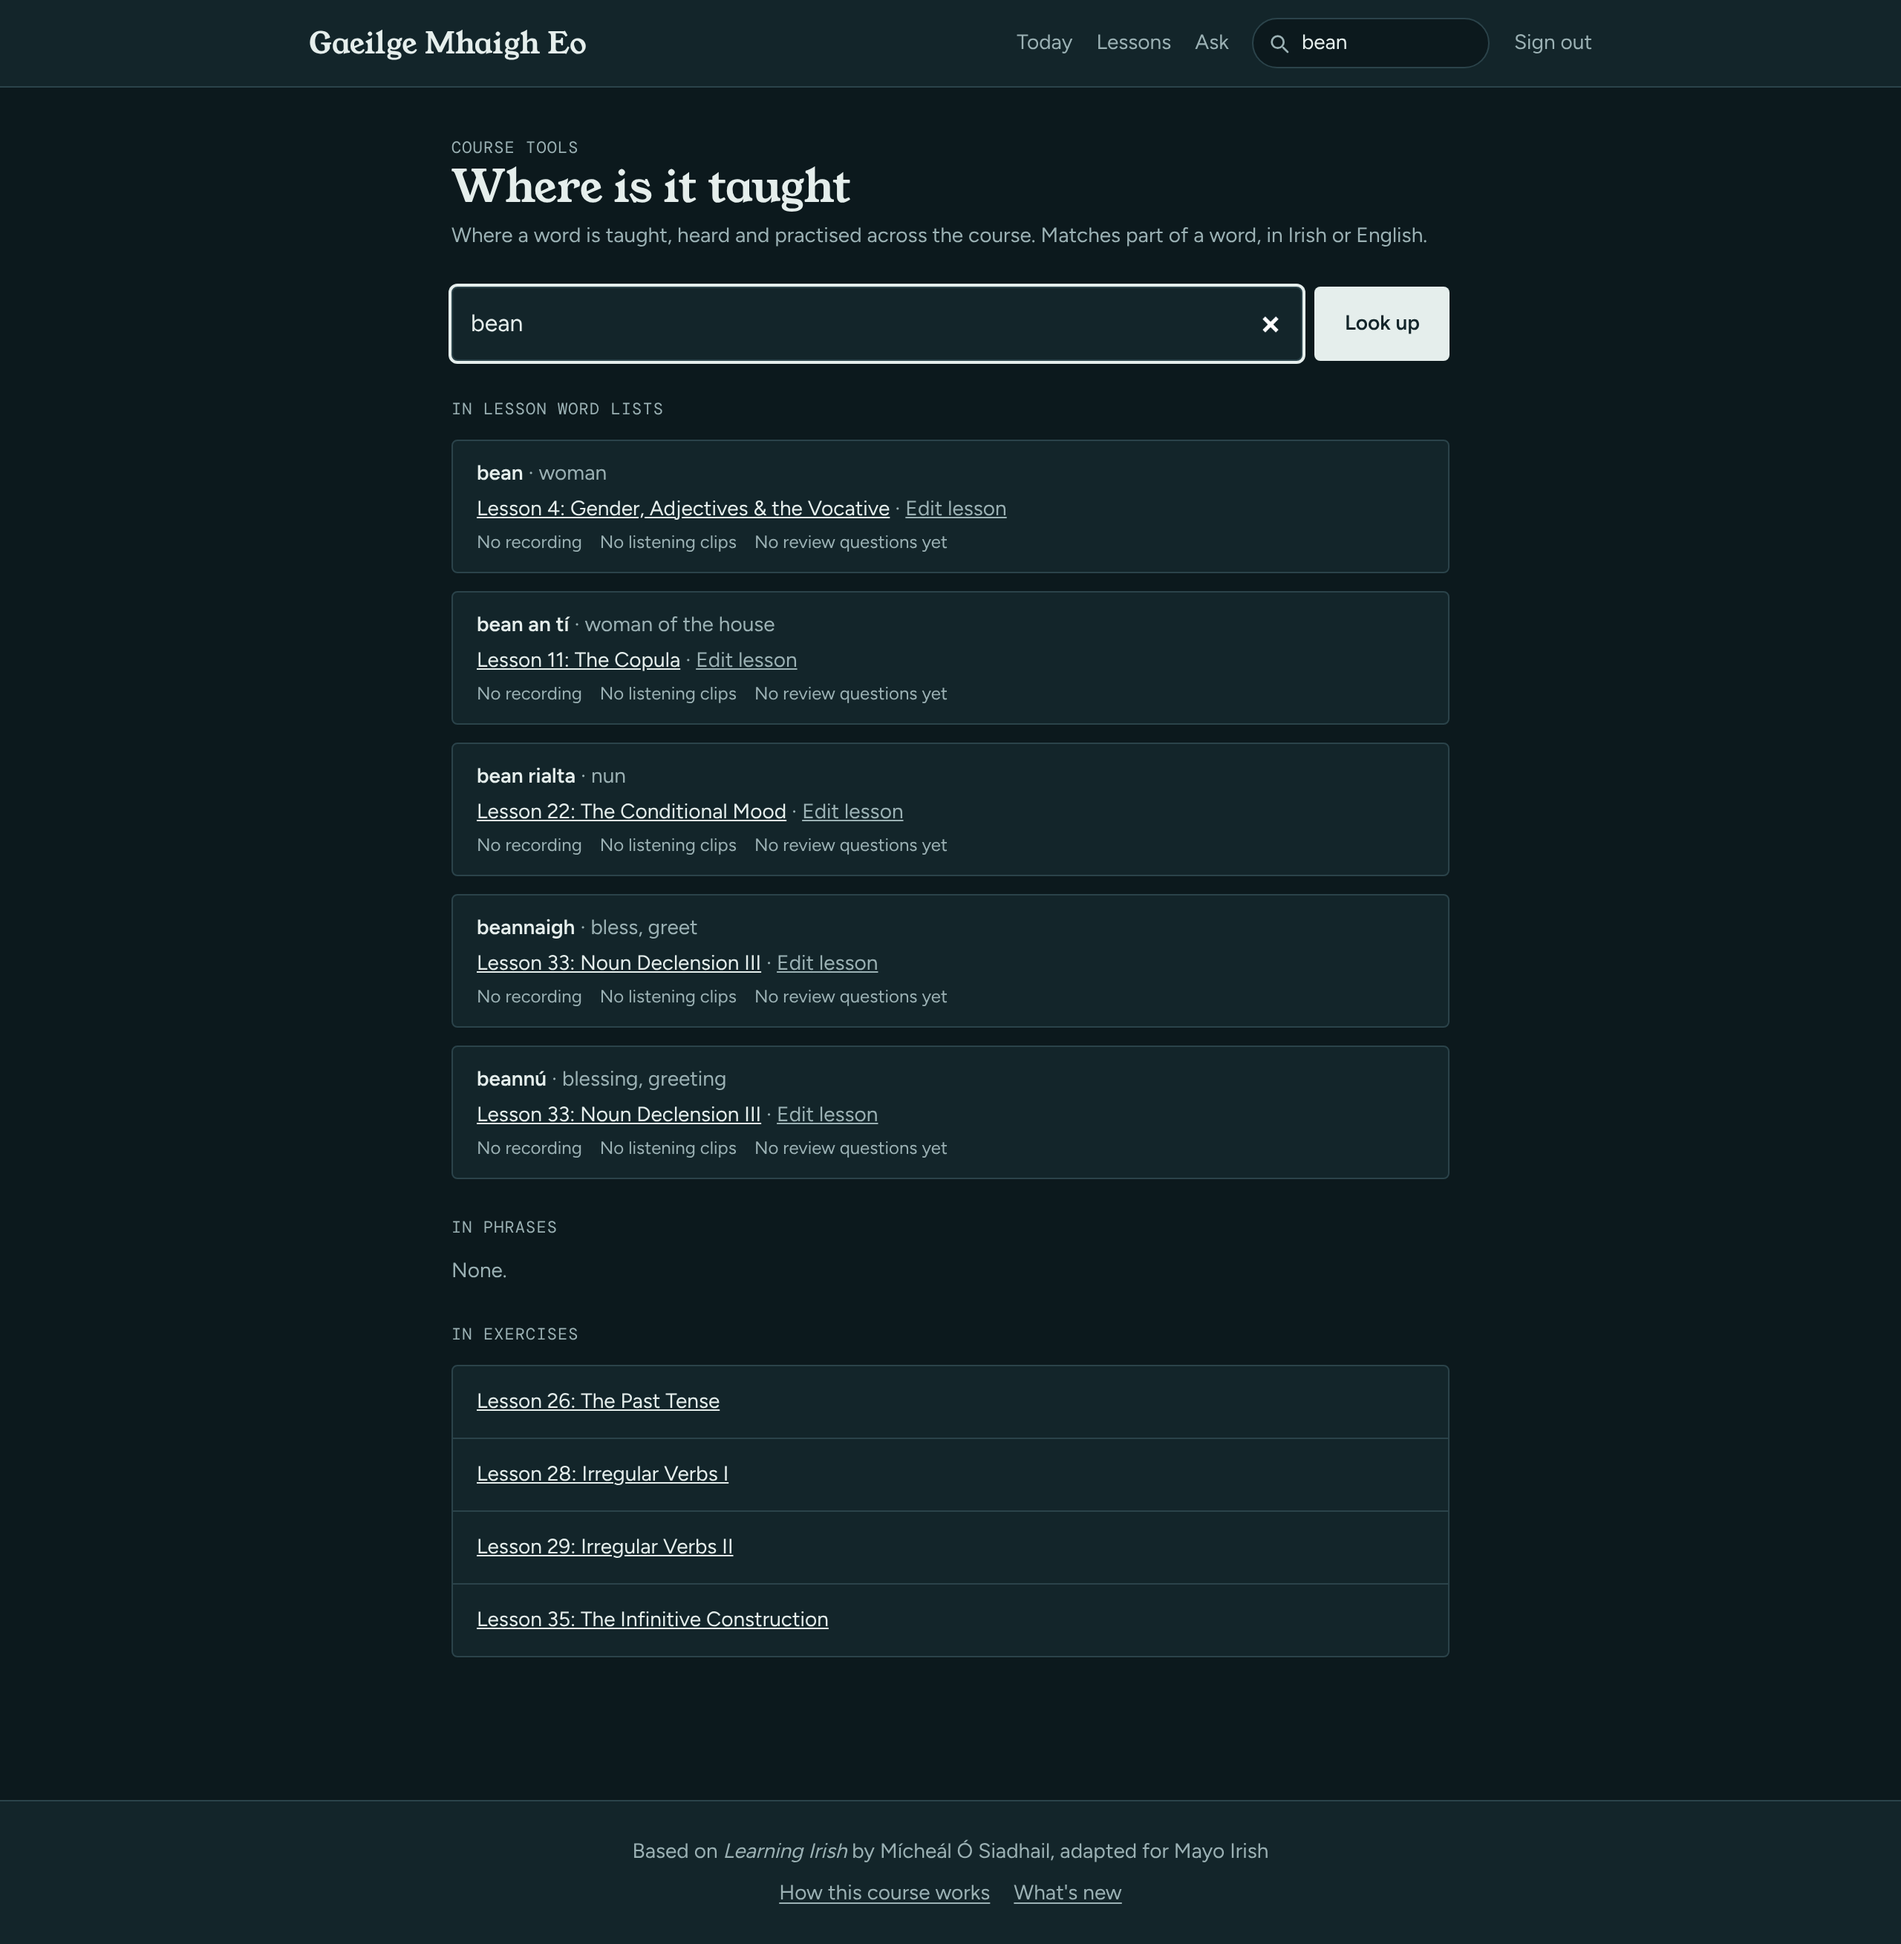
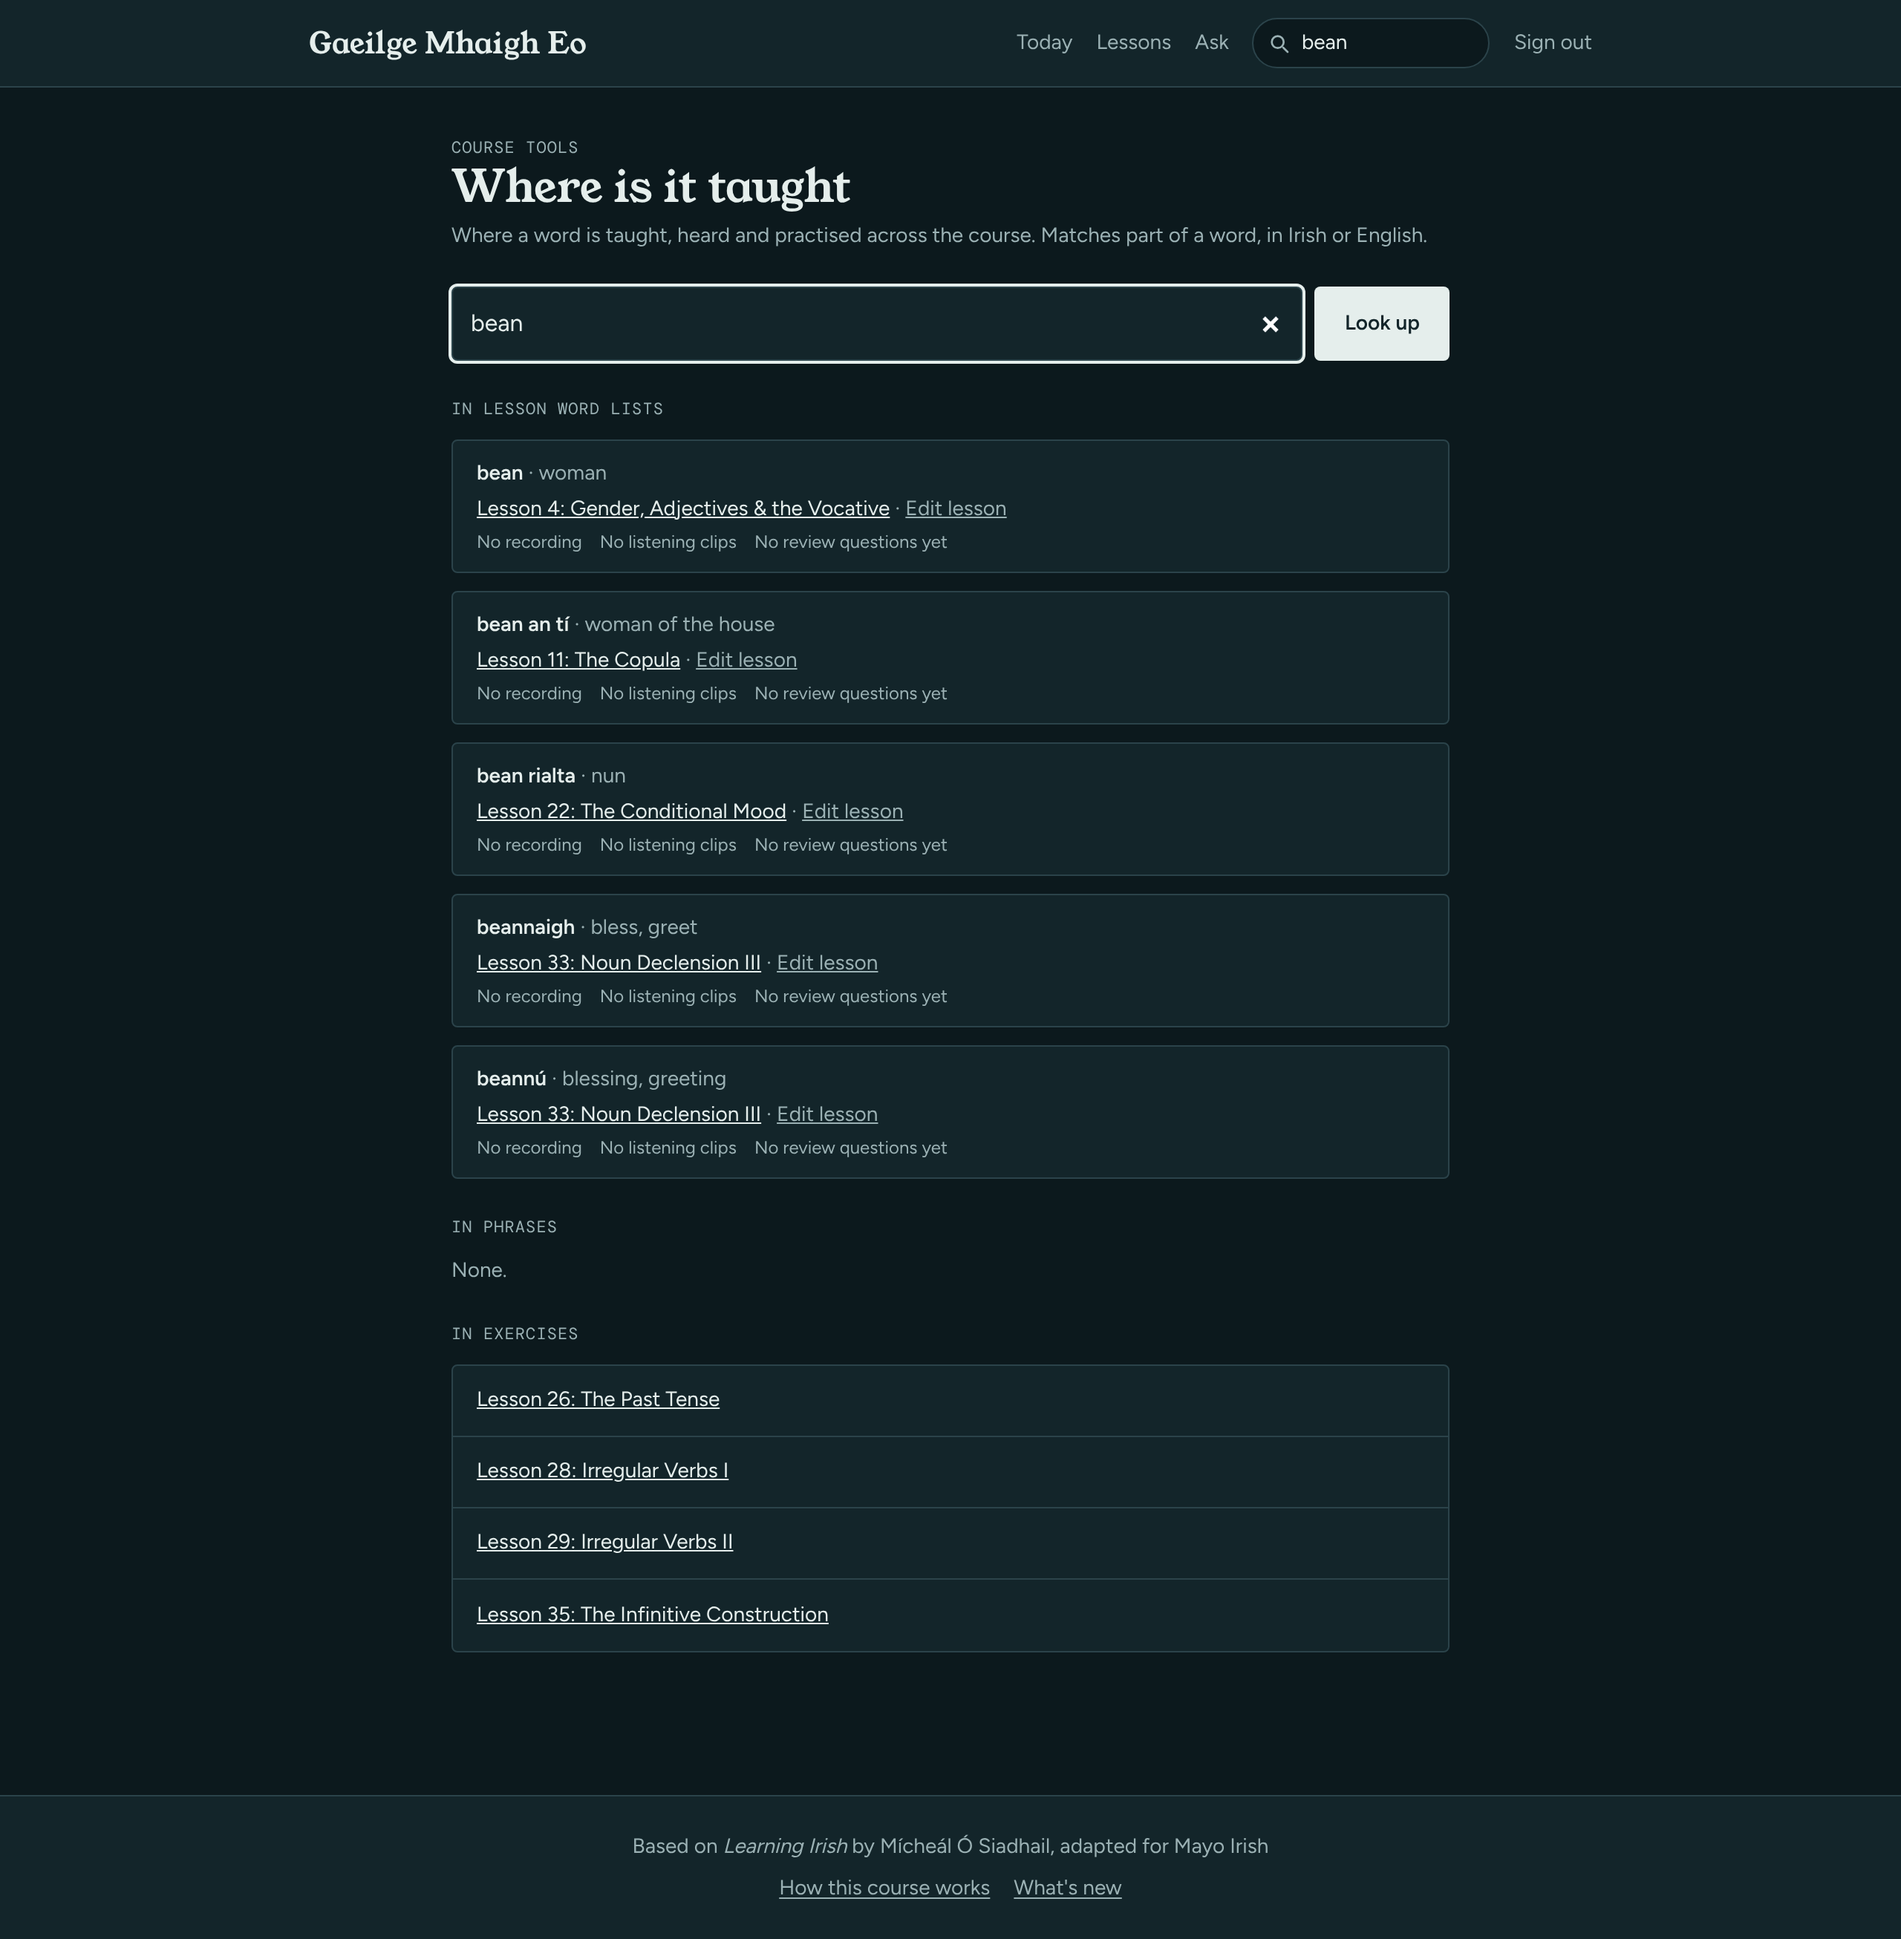
Where is it taught: note truncated lists, mark drafts, more tests (#203)
Claude-Session: https://claude.ai/code/session_017wWQSAtuA9CGNJEz61AEXT

Changed region(s): [[0.25, 0.2171, 0.5312, 0.6202], [0.25, 0.6822, 0.375, 0.7443], [0.25, 0.7753, 0.375, 0.8373]]

diff --git a/app/models/word_locator.rb b/app/models/word_locator.rb
@@ -24,7 +24,9 @@ class WordLocator
     @matches ||= begin
       items = VocabularyItem.includes(:lesson, :audio_attachment)
                             .where("irish LIKE :q ESCAPE '\\' OR english LIKE :q ESCAPE '\\'", q: like)
-                            .order(:lesson_id, :position).limit(LIMIT).to_a
+                            .order(:lesson_id, :position).limit(LIMIT + 1).to_a
+      @more_matches = items.size > LIMIT
+      items = items.first(LIMIT)
       ids = items.map(&:id)
       clips = ListeningClip.where(vocabulary_item_id: ids).group(:vocabulary_item_id).count
       quizzes = QuizQuestion.where(source_type: "VocabularyItem", source_id: ids).group(:source_id).count
@@ -36,24 +38,42 @@ class WordLocator
   end
 
   def phrase_lessons
-    return [] unless valid?
-
-    @phrase_lessons ||= lessons_for(Phrase.where("irish LIKE :q ESCAPE '\\' OR english LIKE :q ESCAPE '\\'", q: like).distinct.pluck(:lesson_id))
+    all_phrase_lessons.first(LIMIT)
   end
 
   def exercise_lessons
-    return [] unless valid?
-
-    @exercise_lessons ||= lessons_for(Exercise.where("prompt LIKE :q ESCAPE '\\' OR answer LIKE :q ESCAPE '\\'", q: like).distinct.pluck(:lesson_id))
+    all_exercise_lessons.first(LIMIT)
   end
 
+  # Whether more than LIMIT words or lessons matched, so a page can say it
+  # shows only the first ones.
+  def more_matches?
+    matches
+    @more_matches.present?
+  end
+
+  def more_phrase_lessons? = all_phrase_lessons.size > LIMIT
+  def more_exercise_lessons? = all_exercise_lessons.size > LIMIT
+
   private
+
+  def all_phrase_lessons
+    return [] unless valid?
+
+    @all_phrase_lessons ||= lessons_for(Phrase.where("irish LIKE :q ESCAPE '\\' OR english LIKE :q ESCAPE '\\'", q: like).distinct.pluck(:lesson_id))
+  end
+
+  def all_exercise_lessons
+    return [] unless valid?
+
+    @all_exercise_lessons ||= lessons_for(Exercise.where("prompt LIKE :q ESCAPE '\\' OR answer LIKE :q ESCAPE '\\'", q: like).distinct.pluck(:lesson_id))
+  end
 
   def like
     "%#{VocabularyItem.sanitize_sql_like(term)}%"
   end
 
   def lessons_for(ids)
-    Lesson.where(id: ids.uniq).order(:number).limit(LIMIT).to_a
+    Lesson.where(id: ids.uniq).order(:number).limit(LIMIT + 1).to_a
   end
 end

diff --git a/test/controllers/where_taught_controller_test.rb b/test/controllers/where_taught_controller_test.rb
@@ -63,6 +63,42 @@ class WhereTaughtControllerTest < ActionDispatch::IntegrationTest
 
   test "signed-out visitors are sent to sign in" do
     get where_taught_path
-    assert_response :redirect
+    assert_redirected_to new_session_path
+  end
+
+  test "says when only the first words and lessons are shown, and marks drafts" do
+    sign_in_as(users(:admin))
+    lessons = (1..(WordLocator::LIMIT + 1)).map do |n|
+      lesson = Lesson.create!(number: 200 + n, title: "Extra #{n}", lesson_type: "curriculum", published: n.odd?)
+      lesson.vocabulary_items.create!(irish: "capall #{n}", english: "horse")
+      lesson.phrases.create!(irish: "Tá capall agam", english: "I have a horse")
+      lesson
+    end
+
+    get where_taught_path(q: "capall")
+
+    assert_select "[id^=where-taught-item-]", WordLocator::LIMIT
+    assert_select "#where-taught-more-words"
+    assert_select "#where-taught-phrase-lessons li", WordLocator::LIMIT
+    assert_select "#where-taught-phrase-lessons-more"
+    assert_select "#where-taught-exercise-lessons-more", false
+    assert_select "#where-taught-phrase-lessons li", text: /#{lessons.second.title}.*Draft/m
+  end
+
+  test "exactly the limit shows no note" do
+    sign_in_as(users(:admin))
+    WordLocator::LIMIT.times { |n| lessons(:one).vocabulary_items.create!(irish: "capall #{n}", english: "horse") }
+
+    get where_taught_path(q: "capall")
+
+    assert_select "[id^=where-taught-item-]", WordLocator::LIMIT
+    assert_select "#where-taught-more-words", false
+  end
+
+  test "the query is shown escaped" do
+    sign_in_as(users(:admin))
+    get where_taught_path(q: "<b>zz</b>")
+    assert_select "#where-taught-none", text: /<b>zz<\/b>/
+    assert_select "#where-taught-none b", false
   end
 end

diff --git a/app/services/mcp/tools/where_is_taught.rb b/app/services/mcp/tools/where_is_taught.rb
@@ -8,7 +8,7 @@ module Mcp
       description "Find where a word is taught, heard and reviewed. Give an Irish or English word; " \
                   "returns each matching vocabulary item with its lesson, whether it has a recording, " \
                   "how many Abairt listening clips and quiz questions use it, and which lessons " \
-                  "use it in a phrase or exercise. Shows up to 10 matches (substring, case-insensitive for plain letters). Returns the course's own text only."
+                  "use it in a phrase or exercise. Shows up to #{LIMIT} matches (substring, case-insensitive for plain letters). Returns the course's own text only."
       annotations(
         title: "Where is it taught",
         read_only_hint: true,

diff --git a/config/routes.rb b/config/routes.rb
@@ -51,7 +51,7 @@ Rails.application.routes.draw do
     resource :form_dismissal, only: :create, controller: "vocabulary_item_form_dismissals"
   end
   resource :course_tools, only: :show
-  resource :where_taught, only: :show, controller: "where_taught", path: "where-taught"
+  resource :where_taught, only: :show, controller: "where_taught"
   resources :course_proposals, only: %i[index create update] do
     resources :comments, only: :create, controller: "proposal_comments"
   end

diff --git a/test/models/word_locator_test.rb b/test/models/word_locator_test.rb
@@ -12,6 +12,10 @@ class WordLocatorTest < ActiveSupport::TestCase
     assert_not match.has_recording
   end
 
+  test "matches part of an Irish word" do
+    assert_equal [ vocabulary_items(:dog) ], WordLocator.new("adr").matches.map(&:item)
+  end
+
   test "a term shorter than two letters finds nothing" do
     locator = WordLocator.new("m")
     assert_not locator.valid?
